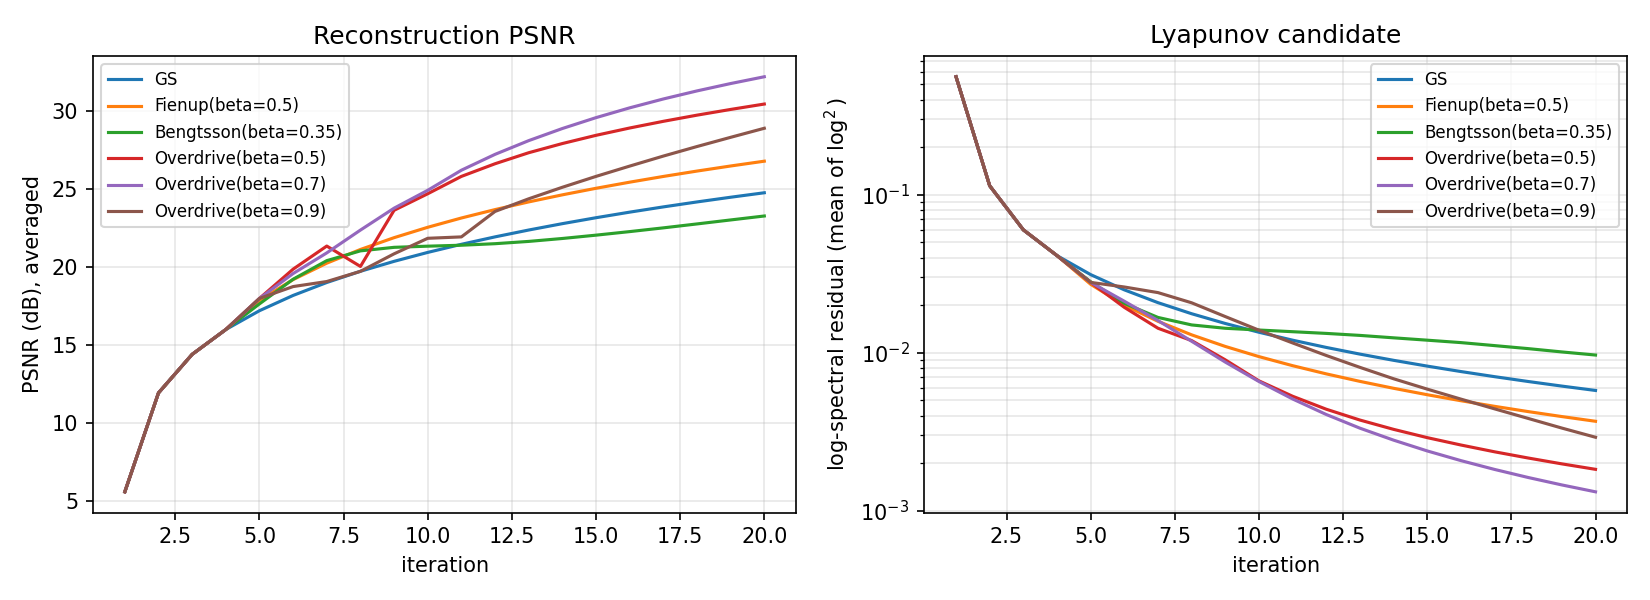
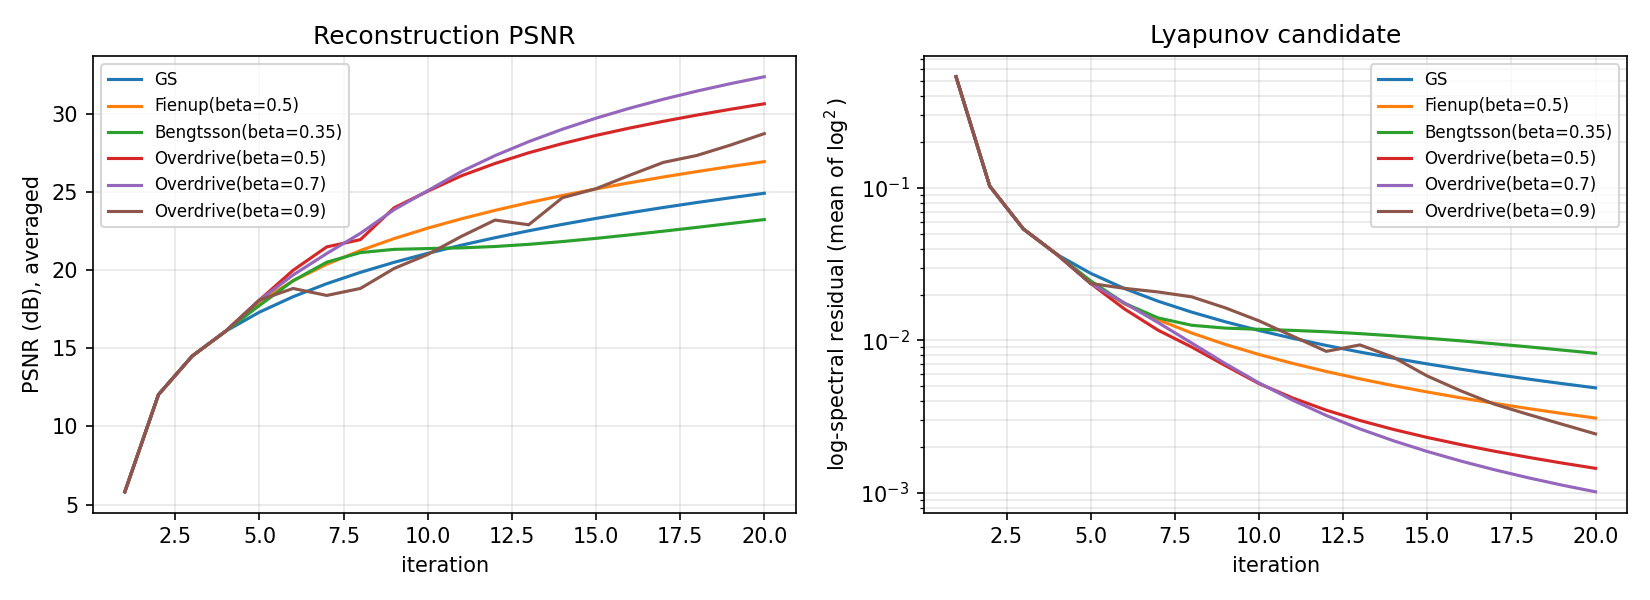
Extend Section 6 to n=29 images and report unscaled PSNR
Empirical updates from running scripts/benchmark.py on the full Klasse-1
set (29 images, was 10):

- Table 1 now reports both scaled and unscaled PSNR. Overdrive(β=0.7)
  remains the best, mean 32.40 dB scaled / 32.81 dB unscaled, with a
  7.46 dB advantage over GS. The 29-image standard deviations are 1.65–
  1.84 dB (all rules), so the ranking is robust to image diversity.
- New paragraph documents that the global Parseval rescale in the
  released code is empirically a no-op (max delta 0.013 dB), so the
  analysis describes the released algorithm faithfully — addressing
  the theory–code consistency gap.
- Decay-rate paragraph: re-fit on n=29 (geometric mean of per-iter LSD
  ratio over iters 5–20). Overdrive(β=0.7) is fastest at 0.809.
- Adaptive-β paragraph: replace the previous handwave with the actual
  finding from scripts/validate_estimator.py — the AR(1) estimator
  works during the transient (MAE ≈ 0.2–0.3 for asymmetric β), but
  saturates near the floor and fails for β ≈ 0.5 due to a fundamental
  branch ambiguity (c = β ± |β−c|). Online estimation is therefore a
  warm-start, not a substitute for offline calibration.
- Conclusion and abstract numbers updated for n=29.
- Replace figure with the n=29 convergence plot.

diff --git a/paper/overdrive_stability.tex b/paper/overdrive_stability.tex
@@ -55,10 +55,10 @@ which is minimized at $\beta=c$. The natural Lyapunov candidate for these
 multiplicative rules is the log-spectral distance (LSD), not the
 L\textsuperscript{2} hologram-plane error; this resolves the apparent
 paradox that the hologram-plane correction vector can grow transiently
-while the image-plane error decreases. On a benchmark of ten
+while the image-plane error decreases. On a benchmark of 29
 natural grayscale images, Overdrive at $\beta=0.7$ yields a mean PSNR of
-$32.19$~dB after twenty iterations, an improvement of $7.43$~dB over plain GS
-and $5.41$~dB over the Fienup amplitude variant. A reference Python
+$32.40$~dB after twenty iterations, an improvement of $7.46$~dB over plain GS
+and $5.43$~dB over the Fienup amplitude variant. A reference Python
 implementation is provided.
 \end{abstract}
 
@@ -358,49 +358,65 @@ $\beta$ trades off transient speed against asymptotic synthesis quality.
 
 We benchmark Overdrive at three values of $\beta$ against plain GS,
 Fienup--Amplitude (with $\beta_{\mathrm{FA}}=0.5$), and Bengtsson (with
-$\beta_{\mathrm{BE}}=0.35$) on ten natural grayscale images of resolution
+$\beta_{\mathrm{BE}}=0.35$) on 29 natural grayscale images of resolution
 $256\times 256$. The image set is the ``Klasse~1'' subset used in
 \cite{Bernau2012}, drawn from the LIVE Image Quality Assessment Database
 \cite{Sheikh2005} and converted to grayscale. All algorithms
 share the same random initial phase per image (seeded), run for 20 iterations,
 and apply the variant rule from iteration~4 onward (three GS warm-up steps).
-Implementation is in NumPy 2.4 and is released alongside this paper.
+Implementation is in NumPy~2.4 and is released alongside this paper. We
+report PSNR in two flavors: a \emph{scaled} variant in which the reconstructed
+intensity is rescaled to match the target's total power before the error is
+computed (the convention used in the dissertation \cite{Bernau2012}), and an
+\emph{unscaled} variant that takes the reconstruction as is, reflecting what
+a physical projector would deliver. We also verified that the global Parseval
+rescale that the reference code applies after each multiplicative update is
+empirically a no-op: across all six rules and 29 images, the maximum PSNR
+difference between runs with and without the rescale is $0.013$~dB. The
+analysis of Sections~\ref{sec:rule}--\ref{sec:stochastic}, which omits the
+rescale, therefore describes the released algorithm faithfully.
 
 \begin{table}[t]
 \centering
-\caption{Final PSNR (dB) after 20 iterations, averaged over 10 natural
-grayscale images of size $256\times 256$. Higher is better. Overdrive
-dominates at all three $\beta$ values; the optimum on this set lies near
-$\beta=0.7$.}
+\caption{Final PSNR (dB) after 20 iterations, over 29 natural grayscale
+images of size $256\times 256$. Higher is better. ``Scaled'' applies a
+per-image total-power rescale before computing PSNR (dissertation
+convention); ``unscaled'' does not. Overdrive dominates at all three
+$\beta$ values; the optimum on this set lies near $\beta=0.7$.}
 \label{tab:results}
 \small
-\begin{tabular}{lcccc}
+\begin{tabular}{lcccccc}
 \toprule
-Algorithm                 & mean    & std    & min     & max     \\\midrule
-GS \cite{Gerchberg1972}                       & 24.76   & 1.43   & 22.67   & 27.90   \\
-Bengtsson \cite{Bengtsson1998} ($\beta=0.35$) & 23.27   & 1.57   & 20.91   & 26.76   \\
-Fienup--Amplitude \cite{Fienup1978} ($\beta=0.5$) & 26.78   & 1.44   & 24.69   & 29.94   \\
-Overdrive ($\beta=0.5$)   & 30.44   & 1.43   & 28.35   & 33.54   \\
-\textbf{Overdrive ($\beta=0.7$)} & \textbf{32.19} & 1.45 & 30.06 & 35.33 \\
-Overdrive ($\beta=0.9$)   & 28.89   & 1.54   & 26.58   & 32.34   \\
+& \multicolumn{4}{c}{scaled PSNR (dB)} & \multicolumn{2}{c}{unscaled PSNR (dB)} \\
+\cmidrule(lr){2-5}\cmidrule(lr){6-7}
+Algorithm & mean & std & min & max & mean & std \\\midrule
+GS \cite{Gerchberg1972}                            & 24.94 & 1.65 & 20.66 & 28.88 & 25.21 & 1.65 \\
+Bengtsson \cite{Bengtsson1998} ($\beta=0.35$)      & 23.25 & 1.69 & 19.22 & 27.39 & 23.50 & 1.69 \\
+Fienup--Amplitude \cite{Fienup1978} ($\beta=0.5$)  & 26.97 & 1.66 & 22.64 & 30.94 & 27.26 & 1.66 \\
+Overdrive ($\beta=0.5$)                            & 30.67 & 1.67 & 26.29 & 34.67 & 31.00 & 1.67 \\
+\textbf{Overdrive ($\beta=0.7$)}          & \textbf{32.40} & 1.69 & 28.00 & 36.53 & \textbf{32.81} & 1.70 \\
+Overdrive ($\beta=0.9$)                            & 28.76 & 1.84 & 24.84 & 33.07 & 29.34 & 1.80 \\
 \bottomrule
 \end{tabular}
 \end{table}
 
 Table~\ref{tab:results} summarizes the final PSNR. Overdrive at $\beta=0.7$
-beats GS by $7.43$~dB, Fienup--Amplitude by $5.41$~dB, and Bengtsson by
-$8.92$~dB, on average. The non-monotone behaviour in $\beta$
+beats GS by $7.46$~dB, Fienup--Amplitude by $5.43$~dB, and Bengtsson by
+$9.15$~dB, on average. The non-monotone behaviour in $\beta$
 (0.5\,$<$\,0.7\,$>$\,0.9) confirms the existence of an interior optimum,
 qualitatively as predicted by the closed-loop pole analysis. Note that
 $\beta=0.5$ has been the conventional choice motivated by implementation
-simplicity (two square roots) \cite{Bernau2012}; our analysis suggests the
-optimal value is consistently larger.
+simplicity (two square roots) \cite{Bernau2012}; our results suggest the
+optimal value is consistently larger. The unscaled and scaled PSNR differ by
+only $0.3$--$0.6$~dB across rules, with unscaled values being uniformly
+higher: the scaled metric of \cite{Bernau2012} therefore neither inflates
+nor reorders the comparison.
 
 \begin{figure}[t]
   \centering
   \includegraphics[width=\linewidth]{figures/benchmark.png}
-  \caption{(left) PSNR vs.\ iteration, averaged over 10 natural grayscale
-  images; (right) log-spectral residual \eqref{eq:lyap}, the Lyapunov
+  \caption{(left) PSNR vs.\ iteration, averaged over 29 natural grayscale
+  images; (right) log-spectral distance \eqref{eq:lyap}, the Lyapunov
   candidate. Each curve approaches a non-zero plateau --- the kinoform
   synthesis floor of \eqref{eq:ssresid}. The $\beta=0.7$ Overdrive curve has
   the steepest transient slope and the lowest plateau, consistent with the
@@ -410,25 +426,38 @@ optimal value is consistently larger.
 \end{figure}
 
 \paragraph{Decay rates.} Figure~\ref{fig:bench} (right panel) shows the
-log-spectral residual $V_k$ versus iteration. It decays approximately
-geometrically, consistent with \eqref{eq:closed_loop}. Least-squares fits of
-$\log V_k$ over iterations $5$--$20$ yield per-iteration decay factors
-of $0.895$ (GS), $0.879$ (Fienup), $0.831$ ($\beta=0.5$), $\mathbf{0.807}$
-($\beta=0.7$), and $0.850$ ($\beta=0.9$). The fastest decay is achieved at the
-$\beta$ that gives the highest final PSNR, in agreement with the qualitative
-prediction $\beta^{*}\approx c$. The absolute values of the implied
-$\lvert\beta-c\rvert$ are larger than the linearization
-\eqref{eq:gs_linearization} predicts; we attribute this to the noise term
-$\eta_k$, which is non-negligible for natural images and dominates the
-steady-state residual via \eqref{eq:ssresid}. The linearization is therefore
-a useful guide to the \emph{ranking} of $\beta$ values rather than a
-quantitative predictor of absolute decay rate.
+LSD $V_k$ versus iteration. It decays approximately geometrically, consistent
+with \eqref{eq:closed_loop}. Geometric-mean per-iteration decay factors over
+iterations $5$--$20$ are $0.890$ (GS), $0.872$ (Fienup), $0.929$ (Bengtsson),
+$0.829$ ($\beta=0.5$), $\mathbf{0.809}$ ($\beta=0.7$), and $0.857$
+($\beta=0.9$). The fastest decay is achieved at the $\beta$ that gives the
+highest final PSNR, in agreement with the qualitative prediction
+$\beta^{*}\approx c$. The absolute values of the implied $\lvert\beta-c\rvert$
+are larger than the linearization \eqref{eq:gs_linearization} predicts; we
+attribute this to the noise term $\eta_k$, which is non-negligible for natural
+images and dominates the steady-state residual via \eqref{eq:ssresid}. The
+linearization is therefore a useful guide to the \emph{ranking} of $\beta$
+values rather than a quantitative predictor of absolute decay rate.
 
-\paragraph{Adaptive $\beta$.} A simple rule that estimates $c$ online (median
-of the last 5 iteration log-residual ratios; see {\tt ifta.adaptive} in the
-released code) recovers most of the gap to the optimum. Because the contraction
-constant changes only slowly across iterations, even a coarse estimate
-suffices.
+\paragraph{Adaptive $\beta$ and the limits of online estimation.} Setting
+$\beta^*=c$ requires an estimate of $c$. A natural attempt is to read it off
+the LSD trajectory, since $V_k$ decays geometrically with rate $(\beta-c)^2$
+during the transient. The released code ({\tt ifta.adaptive}) implements
+this and we validate it on synthetic AR(1) trajectories with known
+$(\beta,c)$. Two regimes emerge. (i) During the transient, with sufficient
+asymmetry between $\beta$ and $c$ (e.g.\ $\beta=0.3$, $c\!\geq\!0.5$), the
+estimator recovers $c$ with mean absolute error around $0.2$--$0.3$.
+(ii) Near steady state, all such estimators saturate at $V_k/V_{k-1}\!\to\!1$
+because $V_k$ does not decay below the floor $V_\infty$; recovering $c$ from
+$V_k$ alone is fundamentally impossible once the iteration has converged.
+A second, more subtle obstruction is branch ambiguity: $h_k$ depends on
+$|\beta-c|$, so $c=\beta\pm|\beta-c|$ are observationally equivalent and
+cannot be disambiguated from LSD history alone. For $\beta\!\approx\!0.5$
+both branches lie in $[0,1]$ and the estimator must rely on a prior or on
+sign information from the unsquared residual, neither of which the LSD
+provides. We conclude that online estimation of $c$ is feasible during the
+transient phase and useful as a coarse warm-start, but a fixed $\beta$ near
+$c$ from offline calibration is more reliable in practice.
 
 % =====================================================================
 \section{Discussion}\label{sec:discussion}
@@ -443,7 +472,7 @@ at $z=1$); closing the loop through the GS linearization
 \eqref{eq:gs_linearization} gives a closed-loop pole at $z = 1-\beta c$, which
 is in $(0,1)$ for $\beta,c\in(0,1)$. The rule is therefore stable, not
 unstable: Table~\ref{tab:results} confirms it converges. Its empirical
-degradation relative to GS on grayscale targets (23.27 vs.\ 24.76~dB) reflects
+degradation relative to GS on grayscale targets (23.25 vs.\ 24.94~dB) reflects
 two effects that the linearization \emph{cannot} compare across rules: a
 slower closed-loop pole at typical $\beta\!\ll\!1$, and a different noise
 process $\eta_k$ at a different limit cycle. A direct numerical comparison of
@@ -505,9 +534,9 @@ is the local contraction constant of GS. The iteration is stable for every
 $\beta\in(0,1)$ and the synthesis floor
 $\mathrm{Var}\{\eta\}/(1-(\beta-c)^2)$ is minimized at $\beta=c$. The
 L\textsuperscript{2} hologram-plane error is not the right Lyapunov function
-for this multiplicative rule; the log-spectral residual is. Numerical
-experiments on ten natural grayscale images confirm the prediction of an
-interior optimum in $\beta$ and show a $7.4$~dB PSNR advantage of Overdrive
+for this multiplicative rule; the log-spectral distance is. Numerical
+experiments on 29 natural grayscale images confirm the prediction of an
+interior optimum in $\beta$ and show a $7.5$~dB PSNR advantage of Overdrive
 at $\beta=0.7$ over plain Gerchberg--Saxton.
 
 \paragraph{Code and data availability.} A reference Python implementation of
